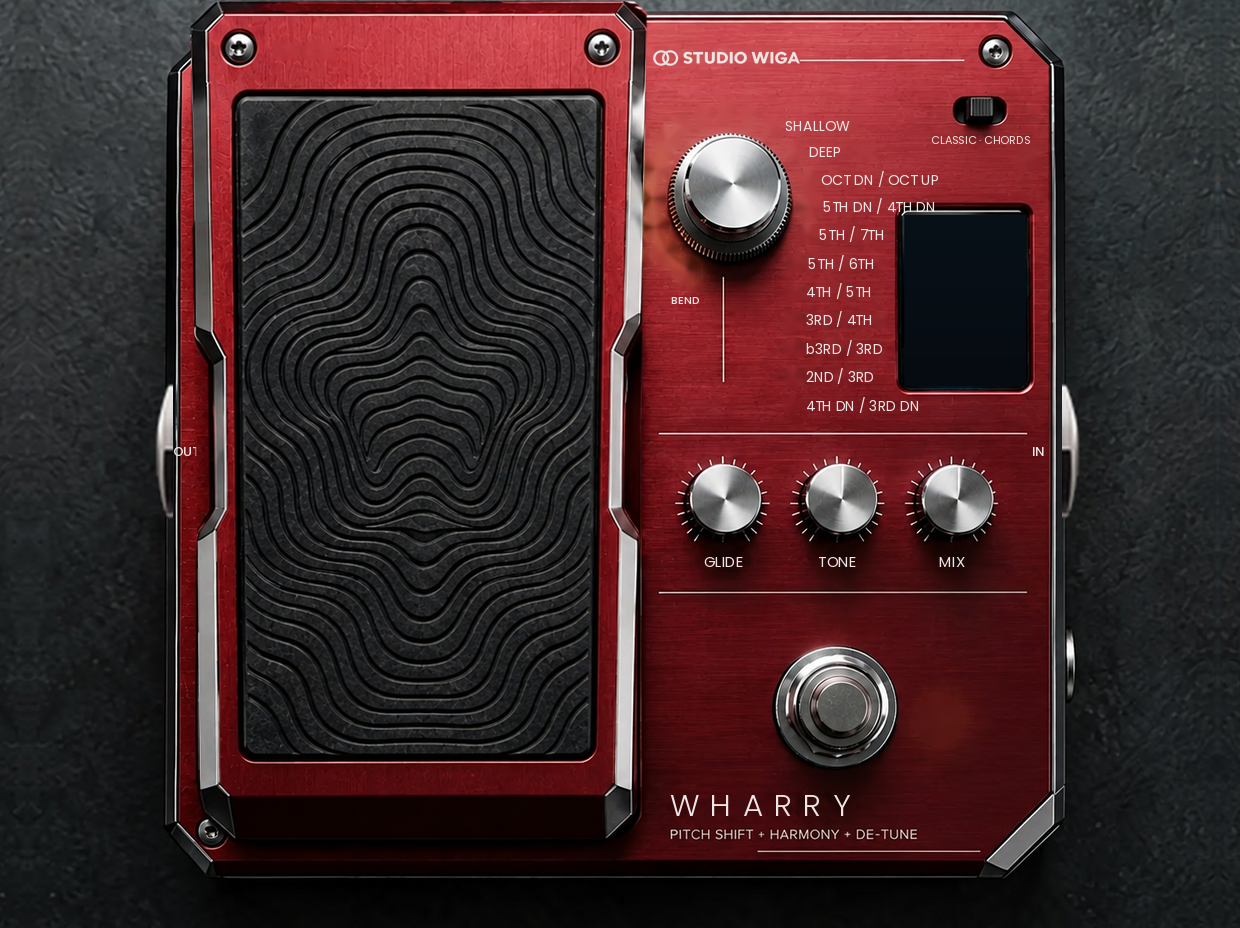
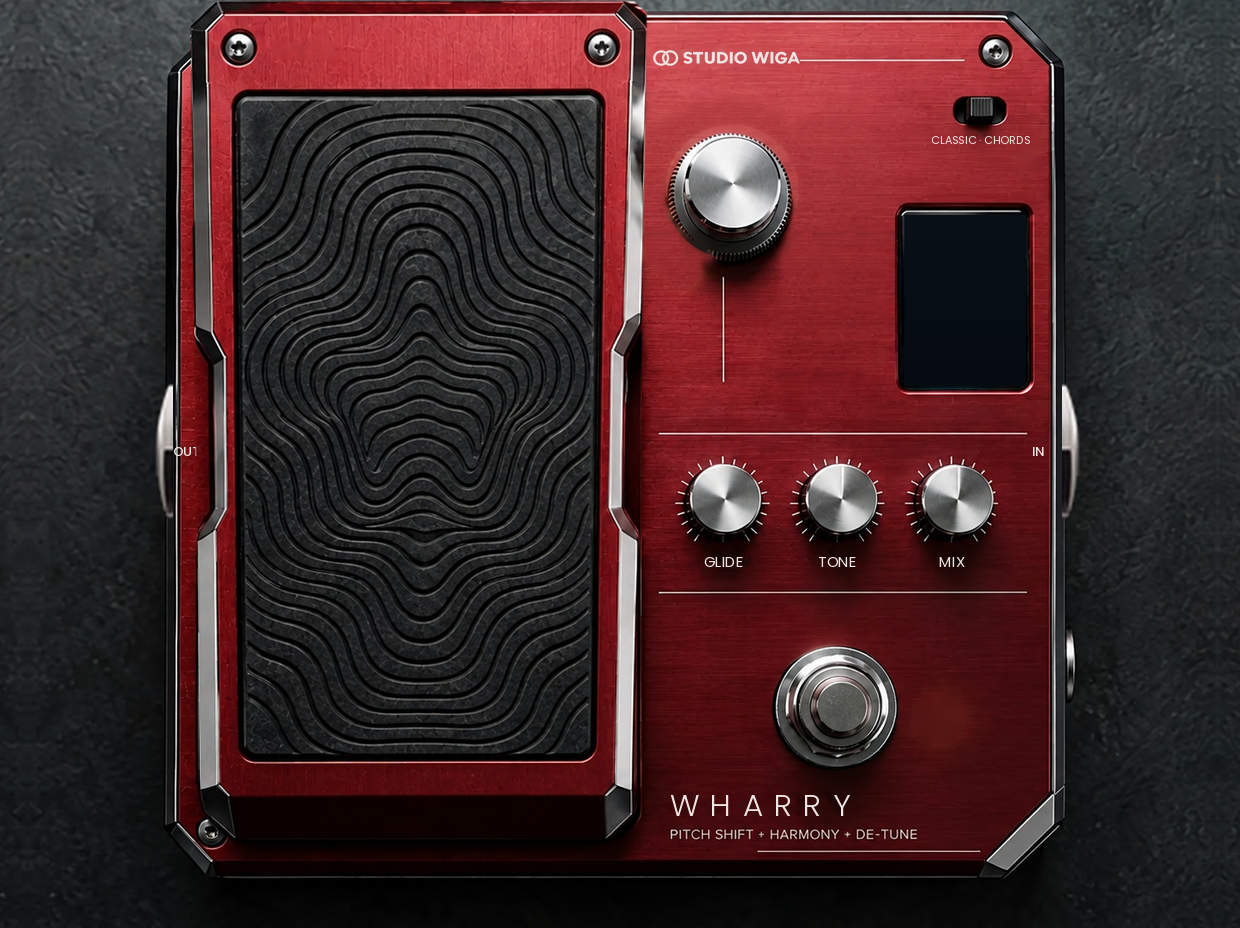
Wharry v1.2.0 : LED et noms autour du sélecteur supprimés, programme affiché sur l'écran
Claude-Session: https://claude.ai/code/session_018p7jtS7pR1FwGZkVP7SLek

Changed region(s): [[0.6435, 0.1875, 0.7661, 0.4375], [0.521, 0.125, 0.5823, 0.3125], [0.6435, 0.125, 0.6742, 0.1875]]

diff --git a/PluginEditor.cpp b/PluginEditor.cpp
@@ -12,7 +12,6 @@ namespace
     constexpr float kDefaultScale = 661.0f / 993.0f;             // fenêtre par défaut = 661 x 495 px (= taille minimale)
 
     // ---- emplacements des commandes dans le repère 1240 x 928 (générés par tools/design_art.py -> tools/layout.txt) ----
-    const Point<float> kLed[21] = { { 686.8f, 269.6f }, { 665.4f, 251.7f }, { 655.1f, 226.8f }, { 651.7f, 197.7f }, { 655.1f, 168.6f }, { 665.4f, 141.2f }, { 681.6f, 125.0f }, { 702.2f, 114.7f }, { 724.4f, 111.3f }, { 748.4f, 114.7f }, { 771.5f, 125.0f }, { 795.5f, 150.7f }, { 807.5f, 178.9f }, { 809.2f, 206.3f }, { 805.8f, 233.7f }, { 794.6f, 262.8f }, { 792.1f, 291.0f }, { 792.1f, 319.3f }, { 792.1f, 348.4f }, { 792.1f, 376.6f }, { 792.1f, 404.9f } };
     constexpr float kLedR = 6.4f;
     const Point<float> kKnob (731.3f, 185.8f);  constexpr float kKnobR = 59.9f, kCapR = 44.5f;   // sélecteur 21 crans
     const Point<float> kSmall[3] = { { 723.6f, 498.2f }, { 837.4f, 498.2f }, { 952.1f, 495.6f } };   // GLIDE, TONE, MIX
@@ -305,10 +304,6 @@ public:
             g.setColour (Colour (0xe0201a1a)); g.drawLine ({ a, b }, 3.2f * s);
         }
 
-        // ---- LED des 21 programmes ----
-        for (int i = 0; i < wharry::kNumPrograms; ++i)
-            drawLed (g, kLed[i], i == drawnProgram ? (drawnActive ? 1.0f : 0.3f) : 0.0f);
-
         // ---- GLIDE / TONE / MIX ----
         for (int i = 0; i < 3; ++i)
         {
@@ -349,7 +344,6 @@ public:
         drag = Drag::None;
         if (kScreen.contains (p)) { showPresetMenu(); return; }
         if (p.getDistanceFrom (kKnob) < kKnobR) { drag = Drag::Knob; dragStartY = p.y; dragStartProg = currentProgram(); return; }
-        for (int i = 0; i < wharry::kNumPrograms; ++i) if (p.getDistanceFrom (kLed[i]) < 11.0f) { proc.selectWhammyProgram (i); return; }
         for (int i = 0; i < 3; ++i)
             if (p.getDistanceFrom (kSmall[i]) < kSmallR * 1.15f)
             {
@@ -432,11 +426,10 @@ private:
     }
     int currentProgram() const { return jlimit (0, wharry::kNumPrograms - 1, (int) std::lround (proc.apvts.getRawParameterValue ("program")->load())); }
     bool param (const char* id) const { return proc.apvts.getRawParameterValue (id)->load() > 0.5f; }
-    static float knobAngle (int prog)
+    static float knobAngle (int prog)      // 21 crans répartis sur ± 150°
     {
         prog = jlimit (0, wharry::kNumPrograms - 1, prog);
-        const auto d = kLed[prog] - kKnob;
-        return std::atan2 (d.x, -d.y);
+        return degreesToRadians (-150.0f + 300.0f * (float) prog / (float) (wharry::kNumPrograms - 1));
     }
 
     // LED : bille grise éteinte, cœur blanc chaud + halo ambré allumée
@@ -455,59 +448,59 @@ private:
         }
     }
 
-    // écran : mode, courbe intervalle / course de pédale, nom du programme, décalage, barres de position
+    // écran : mode / état, famille + numéro, programmes voisins et programme choisi, décalage en direct, barres de course
     void drawScreen (Graphics& g)
     {
         const auto sc = r (kScreen).reduced (3.0f * s);
         g.setColour (kScreenBg); g.fillRoundedRectangle (sc, 4.0f * s);
-        const auto& pr = wharry::program (drawnProgram);
-        const float pad = 7.0f * s;
-        auto area = sc.reduced (pad);
+        const int cur = jlimit (0, wharry::kNumPrograms - 1, drawnProgram);
+        const auto& pr = wharry::program (cur);
+        const float alpha = drawnActive ? 1.0f : 0.4f;
+        auto area = sc.reduced (7.0f * s);
         const float fh = sc.getHeight();
 
-        g.setFont (Font (FontOptions (typefaceBold).withHeight (fh * 0.075f)));
-        g.setColour (kCyan.withAlpha (drawnActive ? 0.85f : 0.35f));
-        auto top = area.removeFromTop (fh * 0.09f);
+        // ligne du haut : moteur + état
+        g.setFont (Font (FontOptions (typefaceBold).withHeight (fh * 0.068f)));
+        g.setColour (kCyan.withAlpha (drawnActive ? 0.85f : 0.4f));
+        auto top = area.removeFromTop (fh * 0.08f);
         g.drawText (drawnChords ? (param ("studio") ? "CHORDS HQ" : "CHORDS") : "CLASSIC", top, Justification::centredLeft);
         g.drawText (drawnActive ? "ON" : "BYPASS", top, Justification::centredRight);
+        area.removeFromTop (fh * 0.02f);
+        g.setColour (kCyan.withAlpha (0.2f)); g.fillRect (area.getX(), area.getY(), area.getWidth(), jmax (1.0f, 0.8f * s));
+        area.removeFromTop (fh * 0.025f);
 
-        // courbe : intervalle en fonction de la course (Whammy / Harmony), niveau de la voix (Detune)
-        auto graph = area.removeFromTop (fh * 0.36f).reduced (0, fh * 0.03f);
-        g.setColour (kCyan.withAlpha (0.15f));
-        g.drawHorizontalLine ((int) graph.getCentreY(), graph.getX(), graph.getRight());
-        float lo = jmin (pr.up, pr.down, 0.0f), hi = jmax (pr.up, pr.down, 0.0f);
-        if (pr.type == wharry::Detune) { lo = 0.0f; hi = 1.0f; }
-        if (hi - lo < 1.0f) hi = lo + 1.0f;
-        auto mapY = [&] (float v) { return graph.getBottom() - (v - lo) / (hi - lo) * graph.getHeight(); };
-        Path curve;
-        for (int i = 0; i <= 24; ++i)
+        // famille + position sur le sélecteur
+        const char* fam = pr.type == wharry::Whammy ? "WHAMMY" : (pr.type == wharry::Detune ? "DETUNE" : "HARMONY");
+        g.setFont (Font (FontOptions (typeface).withHeight (fh * 0.068f)));
+        g.setColour (kCyan.withAlpha (0.75f * alpha));
+        auto famRow = area.removeFromTop (fh * 0.08f);
+        g.drawText (fam, famRow, Justification::centredLeft);
+        g.drawText (String (cur + 1) + " / " + String (wharry::kNumPrograms), famRow, Justification::centredRight);
+
+        // liste défilante : programme précédent, programme choisi (en grand), programme suivant
+        auto row = [&] (int idx, float h, float size, float a, bool bold)
         {
-            const float t = (float) i / 24.0f;
-            const float v = pr.type == wharry::Detune ? t : pr.up + (pr.down - pr.up) * t;
-            const Point<float> q (graph.getX() + t * graph.getWidth(), mapY (v));
-            if (i == 0) curve.startNewSubPath (q); else curve.lineTo (q);
-        }
-        const float alpha = drawnActive ? 1.0f : 0.4f;
-        g.setColour (kCyan.withAlpha (0.25f * alpha)); g.strokePath (curve, PathStrokeType (4.0f * s));
-        g.setColour (kCyan.withAlpha (alpha));         g.strokePath (curve, PathStrokeType (1.6f * s));
-        const float tp = jlimit (0.0f, 1.0f, drawnPedal);
-        const float vNow = pr.type == wharry::Detune ? tp : pr.up + (pr.down - pr.up) * tp;
-        const Point<float> dot (graph.getX() + tp * graph.getWidth(), mapY (vNow));
-        g.setColour (Colours::white.withAlpha (alpha)); g.fillEllipse (dot.x - 3.2f * s, dot.y - 3.2f * s, 6.4f * s, 6.4f * s);
+            auto rr = area.removeFromTop (h);
+            if (idx < 0 || idx >= wharry::kNumPrograms) return;
+            g.setFont (Font (FontOptions (bold ? typefaceBold : typeface).withHeight (size)));
+            g.setColour (Colour (0xffe8fbff).withAlpha (a * alpha));
+            g.drawFittedText (wharry::program (idx).label, rr.toNearestInt(), Justification::centred, 1, 0.55f);
+        };
+        row (cur - 1, fh * 0.09f, fh * 0.065f, 0.35f, false);
+        row (cur,     fh * 0.16f, fh * 0.125f, 1.0f,  true);
+        row (cur + 1, fh * 0.09f, fh * 0.065f, 0.35f, false);
 
-        // nom du programme + décalage courant
-        g.setColour (Colour (0xffe8fbff).withAlpha (alpha));
-        g.setFont (Font (FontOptions (typefaceBold).withHeight (fh * 0.13f)));
-        g.drawFittedText (pr.label, area.removeFromTop (fh * 0.17f).toNearestInt(), Justification::centred, 1, 0.6f);
-        g.setFont (Font (FontOptions (typeface).withHeight (fh * 0.085f)));
+        // décalage courant (ou plage du programme)
+        g.setFont (Font (FontOptions (typeface).withHeight (fh * 0.08f)));
         String val;
-        if (pr.type == wharry::Detune) val = String (roundToInt (pr.up)) + " cents";
+        if (pr.type == wharry::Detune) val = String (roundToInt (pr.up)) + " cents  ·  " + String (roundToInt (jlimit (0.0f, 1.0f, drawnPedal) * 100.0f)) + " %";
         else { const float sm = drawnSemis; val = (sm >= 0.0f ? "+" : "") + String (sm, 1) + " st"; }
-        g.setColour (kCyan.withAlpha (0.9f * alpha));
+        g.setColour (kCyan.withAlpha (0.95f * alpha));
         g.drawText (val, area.removeFromTop (fh * 0.1f), Justification::centred);
 
         // barres : position de la pédale
         auto bars = area.reduced (0, fh * 0.015f);
+        const float tp = jlimit (0.0f, 1.0f, drawnPedal);
         const int nb = 14;
         const float bw = bars.getWidth() / (float) nb;
         for (int i = 0; i < nb; ++i)
@@ -556,7 +549,6 @@ private:
         if (prog != drawnProgram)
         {
             repaint (r (Rectangle<float> (kKnob.x - kKnobR, kKnob.y - kKnobR, 2 * kKnobR, 2 * kKnobR)).toNearestInt().expanded (2));
-            for (int i : { prog, drawnProgram }) if (i >= 0) repaint (ledArea (kLed[i]));
             drawnProgram = prog; screen = true;
         }
         if (chords != drawnChords || active != drawnActive)
@@ -565,7 +557,6 @@ private:
             repaint (r (kToggle).toNearestInt().expanded (3));
             repaint (r (kFs).toNearestInt().expanded (4));
             repaint (ledArea (kFsLed));
-            repaint (ledArea (kLed[prog]));
         }
         for (int i = 0; i < 3; ++i)
         {

diff --git a/tools/design_art.py b/tools/design_art.py
@@ -39,10 +39,43 @@ for t in [(722, 82, 895, 120),            # WHAMMY (haut)
 
 ARC = [(770, 348), (745, 327), (733, 298), (729, 264), (733, 230), (745, 198), (764, 179), (788, 167), (814, 163), (842, 167), (869, 179)]
 LIST = [(897, 209), (911, 242), (913, 274), (909, 306), (896, 340), (893, 373), (893, 406), (893, 440), (893, 473), (893, 506)]
-LEDS = ARC + LIST                                  # 11 + 10 = 21 (la dernière LED de la liste est ajoutée)
-for i, (x, y) in enumerate(LEDS): circ_mask(x, y, 17 if i < 6 or i == 13 else 12)   # LED allumées dans le design : halo plus large
+LEDS = ARC + LIST                                  # LED et étiquettes du design effacées : le programme s'affiche sur l'écran
+for i, (x, y) in enumerate(LEDS): circ_mask(x, y, 15)
 circ_mask(1063, 873, 30)                           # LED du footswitch (dessinée par le plugin)
-inpainted = cv2.inpaint(A, mask, 5, cv2.INPAINT_TELEA)
+# halos orangés des LED allumées (à gauche du sélecteur) : détectés par leur vert élevé, puis reconstruits
+reg = (717, 150, 800, 385)
+gmed = np.median(A[reg[1]:reg[3], reg[0]:reg[2], 1])
+R0 = A[reg[1]:reg[3], reg[0]:reg[2]].astype(np.int32)
+glow = (((R0[..., 1] - R0[..., 2]) > 6) & (R0[..., 0] > 175)).astype(np.uint8) * 255   # orangé : vert > bleu (le panneau rouge a bleu >= vert)
+yy2, xx2 = np.mgrid[reg[1]:reg[3], reg[0]:reg[2]]
+glow = cv2.dilate(glow, np.ones((11, 11), np.uint8))
+glow[np.hypot(xx2 - 822, yy2 - 250) < 77] = 0           # épargne le bouton
+mask[reg[1]:reg[3], reg[0]:reg[2]] |= glow
+inpainted = cv2.inpaint(A, mask, 6, cv2.INPAINT_TELEA)
+
+# zone du sélecteur (anciennes LED, halos, étiquettes) : panneau brossé reconstruit =
+# dégradé de couleur du panneau (plan ajusté sur les pixels propres) + grain brossé pris dans une zone propre
+ZX0, ZY0, ZX1, ZY1 = 717, 140, 1016, 515
+yy3, xx3 = np.mgrid[ZY0:ZY1, ZX0:ZX1]
+rk = np.hypot(xx3 - 822, yy3 - 256)
+knob = rk < 78                                           # bouton + son socle (un peu plus bas que le chapeau)
+halo = (rk >= 78) & (rk < 93) & (yy3 < 292)               # reflet des anciennes LED autour du bouton (garde l'ombre portée du bas)
+zone_mask = ((mask[ZY0:ZY1, ZX0:ZX1] > 0) | halo) & ~knob
+zone_mask = cv2.dilate(zone_mask.astype(np.uint8), np.ones((5, 5), np.uint8)).astype(bool) & ~knob
+Z = A[ZY0:ZY1, ZX0:ZX1].astype(np.float32)
+clean_px = ~zone_mask & ~(rk < 100) & (np.abs(xx3 - 813) > 4)
+X = np.stack([xx3[clean_px], yy3[clean_px], np.ones(clean_px.sum())], 1).astype(np.float64)
+coef = np.linalg.lstsq(X, Z[clean_px].astype(np.float64), rcond=None)[0]
+plane = (np.stack([xx3, yy3, np.ones_like(xx3)], -1).astype(np.float64) @ coef).astype(np.float32)
+tex_src = A[365:530, 828:878].astype(np.float32)
+tex = tex_src - cv2.GaussianBlur(tex_src, (0, 0), 6)
+th, tw = tex.shape[:2]
+tile = np.tile(tex, ((ZY1 - ZY0) // th + 1, (ZX1 - ZX0) // tw + 1, 1))[:ZY1 - ZY0, :ZX1 - ZX0]
+synth = np.clip(plane + tile, 0, 255)
+soft = cv2.GaussianBlur(zone_mask.astype(np.float32), (0, 0), 4.5)[..., None]
+soft[knob] = 0
+region = inpainted[ZY0:ZY1, ZX0:ZX1].astype(np.float32)
+inpainted[ZY0:ZY1, ZX0:ZX1] = (synth * soft + region * (1 - soft)).astype(np.uint8)
 
 # écran vidé : le plugin y dessine l'affichage
 SCR = (1024, 284, 1166, 484)
@@ -82,11 +115,6 @@ def txt(x, y, s, size, font=FR, anchor="lm", spacing=0.0):
         return
     d.text((px, py), s, font=f, fill=INK, anchor=anchor)
 
-labels = ["SHALLOW", "DEEP", "OCT DN / OCT UP", "5TH DN / 4TH DN", "5TH / 7TH", "5TH / 6TH", "4TH / 5TH", "3RD / 4TH", "b3RD / 3RD", "2ND / 3RD", "4TH DN / 3RD DN"]
-for i, s in enumerate(labels):
-    x, y = LEDS[10 + i]
-    txt(x + 16, y + 1, s, 16)
-txt(752, 384, "BEND", 13, FM, "lm")
 txt(1113, 197, "CLASSIC · CHORDS", 13, FR, "mm")
 txt(813, 689, "GLIDE", 18, FR, "mm"); txt(946, 689, "TONE", 18, FR, "mm"); txt(1080, 689, "MIX", 18, FR, "mm")
 txt(750, 974, "WHARRY", 36, FL, "lm", spacing=13)

diff --git a/README.md b/README.md
@@ -9,7 +9,7 @@ au format **pédale double** (fenêtre identique à Ring Think : 661 x 495 par d
 - Program Change façon Whammy 5 : 1-21 Classic, 22-42 Classic bypass, 43-63 Chords, 64-84 Chords bypass
 - Inverseur CLASSIC / CHORDS, footswitch ON / OFF (MIDI learn par clic droit)
 - Boutons GLIDE (lissage de la pédale), TONE (filtre de la voix traitée), MIX (dosage de l'effet)
-- Écran : programme, courbe intervalle / course, décalage en direct ; clic sur l'écran = menu des presets
+- Sélecteur 21 crans sans LED : l'écran affiche famille, numéro, programmes voisins, programme choisi, décalage en direct et course de la pédale ; clic sur l'écran = menu des presets
 - Suivi des notes jusqu'à ~35 Hz (7 cordes en G et plus bas)
 
 ## Visuel
